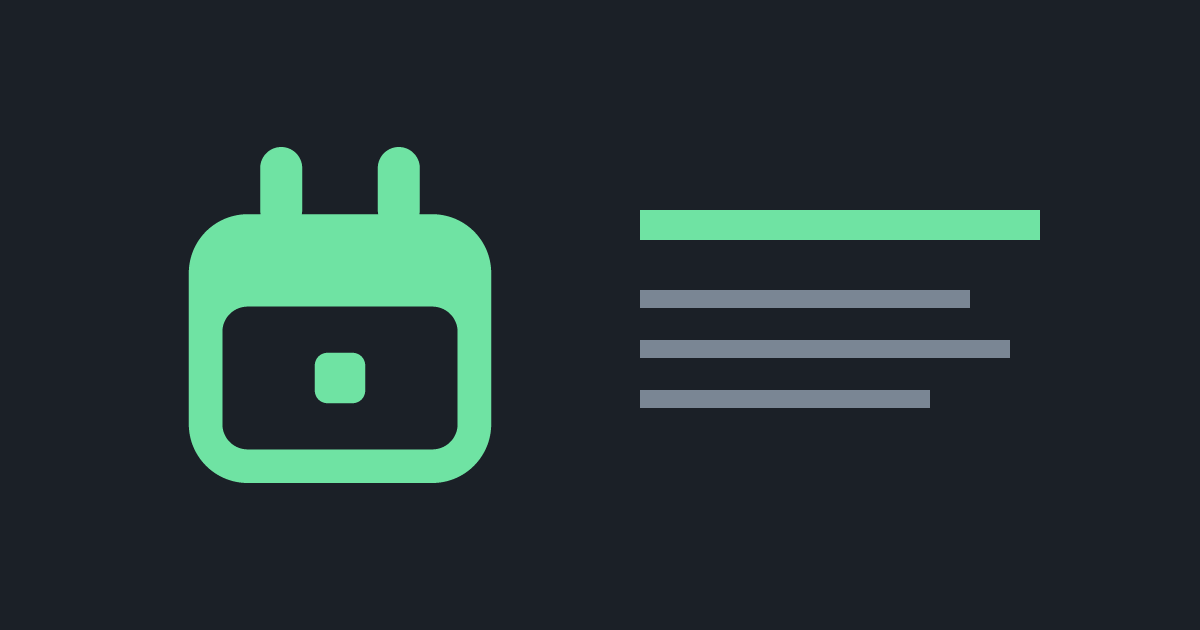
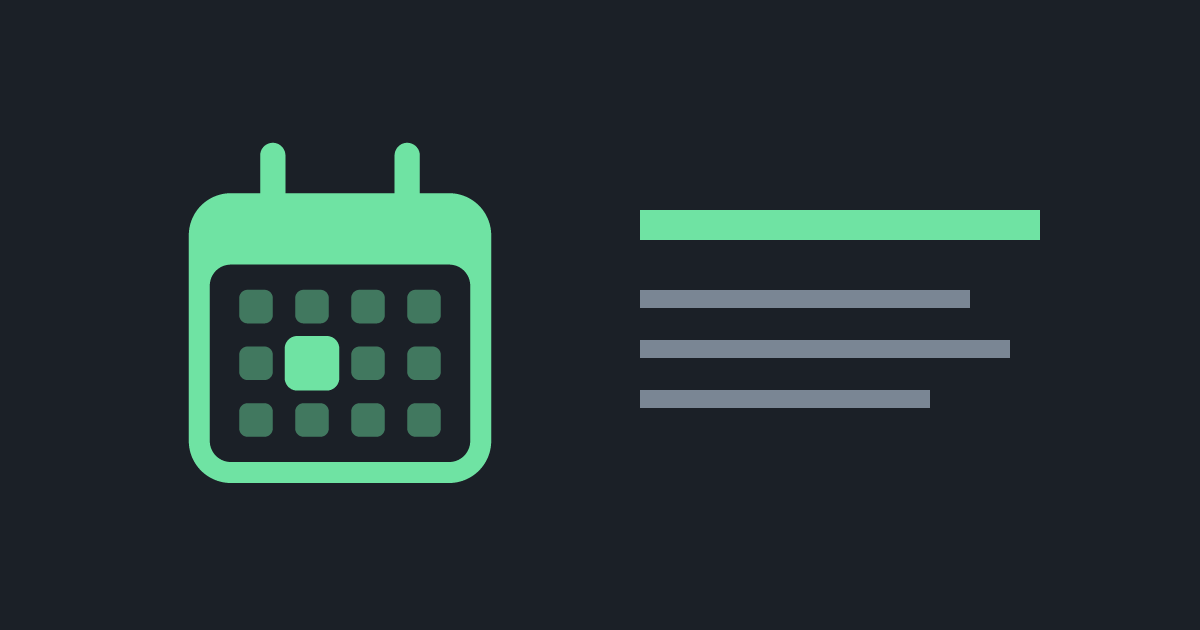
fix: calendar-shaped app mark, iOS edge-to-edge, and sturdier swipes (#14)

Changed region(s): [[0.1542, 0.2111, 0.4317, 0.7841]]

diff --git a/src/app/SwipeDeck.tsx b/src/app/SwipeDeck.tsx
@@ -68,10 +68,11 @@ type Props = {
    *  content the way a swipe does. */
   renderChrome?: (nav: DeckNav) => ReactNode;
   /** Whether the pane scrolls vertically. The default — false — is the month
-   *  and week views, which fill exactly one screen: there the vertical axis is
-   *  taken away from the browser entirely (`touch-action: pan-x`), so a swipe
-   *  can never be lost to a rubber-band scroll of a page that has nowhere to
-   *  go. A scrolling pane keeps `pan-y` and leans on the biased axis lock. */
+   *  and week views, which fill exactly one screen: there the browser is not
+   *  allowed to claim the gesture on either axis (`touch-action: none`), so a
+   *  swipe can never be lost to a rubber-band scroll of a page that has
+   *  nowhere to go. A scrolling pane keeps `pan-y` and leans on the biased
+   *  axis lock. */
   scrolls?: boolean;
 };
 
@@ -113,6 +114,22 @@ export function SwipeDeck({
   const reducedMotion = useMediaQuery("(prefers-reduced-motion: reduce)");
 
   useEffect(() => () => clearTimeout(timer.current), []);
+
+  // Once a drag locks to the horizontal axis the browser must not reclaim it:
+  // on a scrolling deck `pan-y` would otherwise let a downward drift start a
+  // native scroll mid-swipe, which fires `pointercancel` and drops the page
+  // turn. Swallowing the touchmoves while locked keeps the gesture ours, so
+  // only the finger's horizontal travel is measured. Native listener because
+  // it must be non-passive to call `preventDefault`.
+  useEffect(() => {
+    const el = host.current;
+    if (!el) return;
+    const onTouchMove = (e: TouchEvent) => {
+      if (drag.current?.axis === "x" && e.cancelable) e.preventDefault();
+    };
+    el.addEventListener("touchmove", onTouchMove, { passive: false });
+    return () => el.removeEventListener("touchmove", onTouchMove);
+  }, []);
 
   // The anchor moved while a settle was in flight, which can only mean it moved
   // from outside the deck (our own commit clears `settling` first). Drop the
@@ -214,11 +231,10 @@ export function SwipeDeck({
     setDx(Math.max(-d.width, Math.min(d.width, moved)));
   };
 
-  const onPointerUp = (e: ReactPointerEvent<HTMLDivElement>) => {
-    const d = drag.current;
-    drag.current = null;
-    if (!d || d.axis !== "x") return;
-    const moved = Math.max(-d.width, Math.min(d.width, e.clientX - d.x));
+  /** Ends an x-locked drag: commit if it went far or fast, spring back if
+   *  not. `x` is the pointer's final position. */
+  const finish = (d: Drag, x: number) => {
+    const moved = Math.max(-d.width, Math.min(d.width, x - d.x));
     const far = Math.abs(moved) > d.width * COMMIT_FRACTION;
     const flicked =
       Math.abs(d.velocity) > COMMIT_VELOCITY &&
@@ -227,10 +243,22 @@ export function SwipeDeck({
     else rest();
   };
 
-  const onPointerCancel = () => {
-    if (!drag.current) return;
+  const onPointerUp = (e: ReactPointerEvent<HTMLDivElement>) => {
+    const d = drag.current;
     drag.current = null;
-    rest();
+    if (!d || d.axis !== "x") return;
+    finish(d, e.clientX);
+  };
+
+  const onPointerCancel = () => {
+    const d = drag.current;
+    drag.current = null;
+    if (!d) return;
+    // A cancel after the axis lock means the browser stole a gesture that was
+    // already a swipe. Finish it from the last sample rather than snapping
+    // back — the finger asked for a page turn.
+    if (d.axis === "x") finish(d, d.sampleX);
+    else rest();
   };
 
   const onClickCapture = (e: ReactMouseEvent<HTMLDivElement>) => {
@@ -254,10 +282,11 @@ export function SwipeDeck({
       ref={host}
       className="flex h-full flex-col overflow-hidden"
       // A scrolling pane keeps `pan-y` so the browser still owns the vertical
-      // axis (and pinch-zoom) without a preventDefault race; a pane that fills
-      // one screen has no vertical axis worth keeping, and giving it up means
-      // no bounce competes with the swipe.
-      style={{ touchAction: scrolls ? "pan-y" : "pan-x" }}
+      // axis before the axis lock decides; a pane that fills one screen has no
+      // native gesture worth keeping on either axis, and `none` means the
+      // browser can never claim the drag (a claim fires `pointercancel` and
+      // eats the page turn — `pan-x` invited exactly that).
+      style={{ touchAction: scrolls ? "pan-y" : "none" }}
       onPointerDown={onPointerDown}
       onPointerMove={onPointerMove}
       onPointerUp={onPointerUp}

diff --git a/pwa-plugin.ts b/pwa-plugin.ts
@@ -305,8 +305,11 @@ export function appPwa({ base, version }: AppPwaOptions): Plugin {
         {
           tag: "meta",
           attrs: {
+            // `black-translucent` lets the installed app paint under the iOS
+            // status bar (edge-to-edge, like the sibling contacts app); the
+            // top menu pads with `env(safe-area-inset-top)` to stay clear.
             name: "apple-mobile-web-app-status-bar-style",
-            content: "default",
+            content: "black-translucent",
           },
           injectTo: "head",
         },

diff --git a/.changes/unreleased/1787040000-app-icon.md b/.changes/unreleased/1787040000-app-icon.md
@@ -4,5 +4,6 @@ title: A new app icon
 ---
 
 The installed app now wears the same mark as its siblings — a stylised green
-calendar page on a near-black tile — in the browser tab, on your home screen
-and on the link preview.
+calendar page with hanger pins, a header band and a grid of day cells with one
+marked day, on a near-black tile — in the browser tab, on your home screen and
+on the link preview.

diff --git a/.changes/unreleased/1787040600-swipe-axis-lock.md b/.changes/unreleased/1787040600-swipe-axis-lock.md
@@ -1,0 +1,8 @@
+---
+type: Fixed
+title: Swipes survive a vertical drift
+---
+
+A left or right page swipe now follows through even when the finger drifts
+vertically before lifting — once a swipe starts, only its horizontal travel
+counts.

diff --git a/.changes/unreleased/1787040700-ios-edge-to-edge.md b/.changes/unreleased/1787040700-ios-edge-to-edge.md
@@ -1,0 +1,7 @@
+---
+type: Fixed
+title: Edge-to-edge on iOS
+---
+
+The installed app now paints all the way up under the iOS status bar instead
+of leaving an opaque bar above the top menu.
